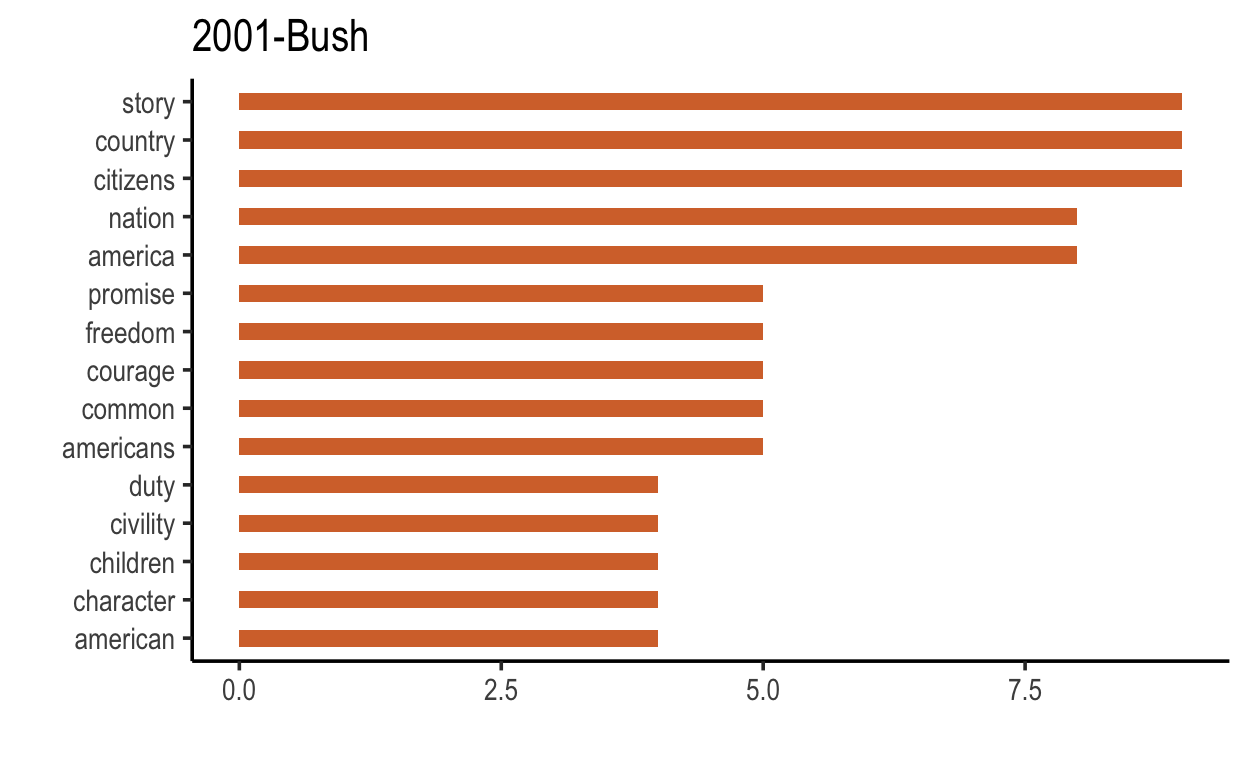
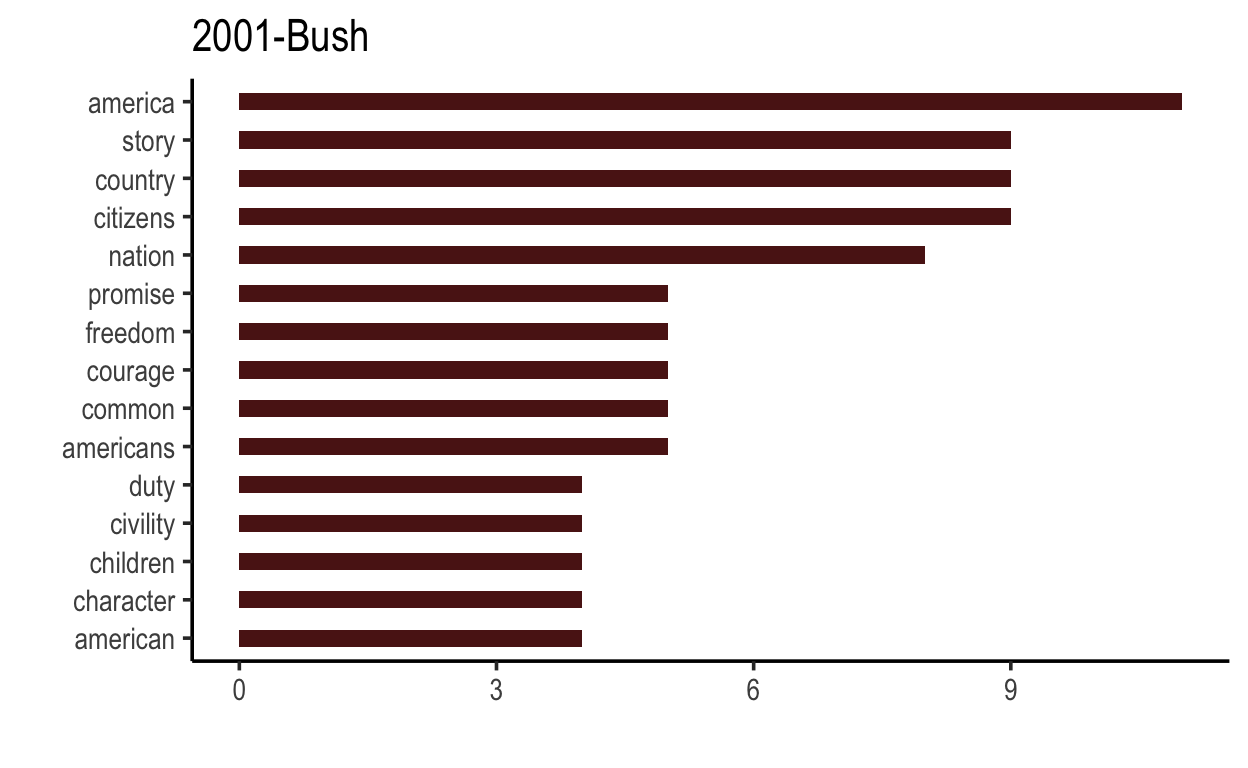
rev

diff --git a/_site/posts/3-keywords/index.html b/_site/posts/3-keywords/index.html
@@ -87,7 +87,7 @@ code span.wa { color: #5e5e5e; font-style: italic; } /* Warning */
   <!--radix_placeholder_meta_tags-->
 <title>Texan Inaugural Addresses: 3 Keywords</title>
 
-<meta property="description" itemprop="description" content="Which keywords and ngrams are important?"/>
+<meta property="description" itemprop="description" content="Which keywords are frequent, and which are significant?"/>
 
 <link rel="canonical" href="https://texan-inaugurals.netlify.app/posts/3-keywords/"/>
 
@@ -99,7 +99,7 @@ code span.wa { color: #5e5e5e; font-style: italic; } /* Warning */
 <!--  https://developers.facebook.com/docs/sharing/webmasters#markup -->
 <meta property="og:title" content="Texan Inaugural Addresses: 3 Keywords"/>
 <meta property="og:type" content="article"/>
-<meta property="og:description" content="Which keywords and ngrams are important?"/>
+<meta property="og:description" content="Which keywords are frequent, and which are significant?"/>
 <meta property="og:url" content="https://texan-inaugurals.netlify.app/posts/3-keywords/"/>
 <meta property="og:image" content="https://texan-inaugurals.netlify.app/posts/3-keywords/key.png"/>
 <meta property="og:image:width" content="606"/>
@@ -110,7 +110,7 @@ code span.wa { color: #5e5e5e; font-style: italic; } /* Warning */
 <!--  https://dev.twitter.com/cards/types/summary -->
 <meta property="twitter:card" content="summary_large_image"/>
 <meta property="twitter:title" content="Texan Inaugural Addresses: 3 Keywords"/>
-<meta property="twitter:description" content="Which keywords and ngrams are important?"/>
+<meta property="twitter:description" content="Which keywords are frequent, and which are significant?"/>
 <meta property="twitter:url" content="https://texan-inaugurals.netlify.app/posts/3-keywords/"/>
 <meta property="twitter:image" content="https://texan-inaugurals.netlify.app/posts/3-keywords/key.png"/>
 <meta property="twitter:image:width" content="606"/>
@@ -127,12 +127,12 @@ code span.wa { color: #5e5e5e; font-style: italic; } /* Warning */
   <!--radix_placeholder_rmarkdown_metadata-->
 
 <script type="text/json" id="radix-rmarkdown-metadata">
-{"type":"list","attributes":{"names":{"type":"character","attributes":{},"value":["title","description","author","date","draft","output","citation_url","canonical_url"]}},"value":[{"type":"character","attributes":{},"value":["3 Keywords"]},{"type":"character","attributes":{},"value":["Which keywords and ngrams are important?"]},{"type":"list","attributes":{},"value":[{"type":"list","attributes":{"names":{"type":"character","attributes":{},"value":["name","url","affiliation"]}},"value":[{"type":"character","attributes":{},"value":["Lars Hinrichs"]},{"type":"character","attributes":{},"value":["https://larshinrichs.site"]},{"type":"character","attributes":{},"value":["The University of Texas at Austin"]}]}]},{"type":"character","attributes":{},"value":["12-24-2020"]},{"type":"logical","attributes":{},"value":[false]},{"type":"list","attributes":{"names":{"type":"character","attributes":{},"value":["distill::distill_article"]}},"value":[{"type":"list","attributes":{"names":{"type":"character","attributes":{},"value":["self_contained"]}},"value":[{"type":"logical","attributes":{},"value":[false]}]}]},{"type":"character","attributes":{},"value":["https://texan-inaugurals.netlify.app/posts/3-keywords/"]},{"type":"character","attributes":{},"value":["https://texan-inaugurals.netlify.app/posts/3-keywords/"]}]}
+{"type":"list","attributes":{"names":{"type":"character","attributes":{},"value":["title","description","author","date","draft","output","citation_url","canonical_url"]}},"value":[{"type":"character","attributes":{},"value":["3 Keywords"]},{"type":"character","attributes":{},"value":["Which keywords are frequent, and which are significant?"]},{"type":"list","attributes":{},"value":[{"type":"list","attributes":{"names":{"type":"character","attributes":{},"value":["name","url","affiliation"]}},"value":[{"type":"character","attributes":{},"value":["Lars Hinrichs"]},{"type":"character","attributes":{},"value":["https://larshinrichs.site"]},{"type":"character","attributes":{},"value":["The University of Texas at Austin"]}]}]},{"type":"character","attributes":{},"value":["12-24-2020"]},{"type":"logical","attributes":{},"value":[false]},{"type":"list","attributes":{"names":{"type":"character","attributes":{},"value":["distill::distill_article"]}},"value":[{"type":"list","attributes":{"names":{"type":"character","attributes":{},"value":["self_contained"]}},"value":[{"type":"logical","attributes":{},"value":[false]}]}]},{"type":"character","attributes":{},"value":["https://texan-inaugurals.netlify.app/posts/3-keywords/"]},{"type":"character","attributes":{},"value":["https://texan-inaugurals.netlify.app/posts/3-keywords/"]}]}
 </script>
 <!--/radix_placeholder_rmarkdown_metadata-->
   
   <script type="text/json" id="radix-resource-manifest">
-  {"type":"character","attributes":{},"value":["3-keywords_files/anchor-4.2.2/anchor.min.js","3-keywords_files/bowser-1.9.3/bowser.min.js","3-keywords_files/distill-2.2.21/template.v2.js","3-keywords_files/figure-html5/make-plots-1.png","3-keywords_files/figure-html5/p1-1.png","3-keywords_files/figure-html5/p2-1.png","3-keywords_files/figure-html5/p3-1.png","3-keywords_files/figure-html5/p4-1.png","3-keywords_files/header-attrs-2.5/header-attrs.js","3-keywords_files/jquery-1.11.3/jquery.min.js","3-keywords_files/webcomponents-2.0.0/webcomponents.js","data/p1.png","data/plots.png","key.png"]}
+  {"type":"character","attributes":{},"value":["3-keywords_files/anchor-4.2.2/anchor.min.js","3-keywords_files/bowser-1.9.3/bowser.min.js","3-keywords_files/distill-2.2.21/template.v2.js","3-keywords_files/figure-html5/make-plots-1.png","3-keywords_files/figure-html5/p1-1.png","3-keywords_files/figure-html5/p2-1.png","3-keywords_files/figure-html5/p3-1.png","3-keywords_files/figure-html5/p4-1.png","3-keywords_files/figure-html5/p5-1.png","3-keywords_files/figure-html5/p6-1.png","3-keywords_files/figure-html5/p7-1.png","3-keywords_files/figure-html5/p8-1.png","3-keywords_files/figure-html5/printplots1-2-1.png","3-keywords_files/figure-html5/printplots1-4-1.png","3-keywords_files/figure-html5/printplots5-8-1.png","3-keywords_files/figure-html5/tf-idf-1.png","3-keywords_files/header-attrs-2.5/header-attrs.js","3-keywords_files/jquery-1.11.3/jquery.min.js","3-keywords_files/webcomponents-2.0.0/webcomponents.js","data/p1.png","data/plots.png","key.png"]}
   </script>
   <!--radix_placeholder_navigation_in_header-->
 <meta name="distill:offset" content="../.."/>
@@ -1777,7 +1777,7 @@ document.addEventListener('DOMContentLoaded', function() {
 <!--radix_placeholder_front_matter-->
 
 <script id="distill-front-matter" type="text/json">
-{"title":"3 Keywords","description":"Which keywords and ngrams are important?","authors":[{"author":"Lars Hinrichs","authorURL":"https://larshinrichs.site","affiliation":"The University of Texas at Austin","affiliationURL":"#","orcidID":""}],"publishedDate":"2020-12-24T00:00:00.000+00:00","citationText":"Hinrichs, 2020"}
+{"title":"3 Keywords","description":"Which keywords are frequent, and which are significant?","authors":[{"author":"Lars Hinrichs","authorURL":"https://larshinrichs.site","affiliation":"The University of Texas at Austin","affiliationURL":"#","orcidID":""}],"publishedDate":"2020-12-24T00:00:00.000+00:00","citationText":"Hinrichs, 2020"}
 </script>
 
 <!--/radix_placeholder_front_matter-->
@@ -1805,7 +1805,7 @@ document.addEventListener('DOMContentLoaded', function() {
 <h1>3 Keywords</h1>
 <!--radix_placeholder_categories-->
 <!--/radix_placeholder_categories-->
-<p><p>Which keywords and ngrams are important?</p></p>
+<p><p>Which keywords are frequent, and which are significant?</p></p>
 </div>
 
 <div class="d-byline">
@@ -1826,17 +1826,33 @@ document.addEventListener('DOMContentLoaded', function() {
 <div class="layout-chunk" data-layout="l-body">
 
 </div>
+<div class="layout-chunk" data-layout="l-outset">
+<div class="figure"><span id="fig:printplots1-4"></span>
+<img src="3-keywords_files/figure-html5/printplots1-4-1.png" alt="Top 15 terms in each Texan inaugural address by raw frequency." width="624" />
+<p class="caption">
+Figure 1: Top 15 terms in each Texan inaugural address by raw frequency.
+</p>
+</div>
+</div>
+<h2 id="most-important-words-by-tf-idf">Most important words by tf-idf</h2>
+<p>An advanced measure of the importance of words in documents is <code>tf-idf</code>. It is calculated using a formula that takes into account both each word’s raw frequency as well as the number of documents in the corpus in which it is used. This method is a way of finding out <strong>the most distinctive words in each text</strong>.</p>
+<aside>
+<code>tf-idf</code> is defined in detail <a href="https://en.wikipedia.org/wiki/Tf%E2%80%93idf">here</a>.
+</aside>
+<p>For example, in the context at hand, you might expect that each of the four speeches contains the words <em>freedom</em> or <em>people</em>. And while it is certainly interesting which president used them the most, these words aren’t really distinctive, simply because each president uses them on this occasion. But it’s instructive to look at the words that are <em>both frequent and unique</em> to each speech.</p>
 <div class="layout-chunk" data-layout="l-body">
-<p><img src="3-keywords_files/figure-html5/p2-1.png" width="624" /></p>
+
 </div>
 <div class="layout-chunk" data-layout="l-body">
-<p><img src="3-keywords_files/figure-html5/p3-1.png" width="624" /></p>
+
 </div>
-<div class="layout-chunk" data-layout="l-body">
-<p><img src="3-keywords_files/figure-html5/p4-1.png" width="624" /></p>
+<div class="layout-chunk" data-layout="l-outset">
+<div class="figure"><span id="fig:printplots5-8"></span>
+<img src="3-keywords_files/figure-html5/printplots5-8-1.png" alt="Top 15 terms in each Texan inaugural address by tf-idf." width="624" />
+<p class="caption">
+Figure 2: Top 15 terms in each Texan inaugural address by tf-idf.
+</p>
 </div>
-<div class="layout-chunk" data-layout="l-body">
-<p><img src="3-keywords_files/figure-html5/p1-1.png" width="624" /></p>
 </div>
 <div class="sourceCode" id="cb1"><pre class="sourceCode r distill-force-highlighting-css"><code class="sourceCode r"></code></pre></div>
 <!--radix_placeholder_article_footer-->

diff --git a/_posts/3-keywords/3-keywords.html b/_posts/3-keywords/3-keywords.html
@@ -87,7 +87,7 @@ code span.wa { color: #5e5e5e; font-style: italic; } /* Warning */
   <!--radix_placeholder_meta_tags-->
   <title>3 Keywords</title>
 
-  <meta property="description" itemprop="description" content="Which keywords and ngrams are important?"/>
+  <meta property="description" itemprop="description" content="Which keywords are frequent, and which are significant?"/>
 
 
   <!--  https://schema.org/Article -->
@@ -98,24 +98,24 @@ code span.wa { color: #5e5e5e; font-style: italic; } /* Warning */
   <!--  https://developers.facebook.com/docs/sharing/webmasters#markup -->
   <meta property="og:title" content="3 Keywords"/>
   <meta property="og:type" content="article"/>
-  <meta property="og:description" content="Which keywords and ngrams are important?"/>
+  <meta property="og:description" content="Which keywords are frequent, and which are significant?"/>
   <meta property="og:locale" content="en_US"/>
 
   <!--  https://dev.twitter.com/cards/types/summary -->
   <meta property="twitter:card" content="summary"/>
   <meta property="twitter:title" content="3 Keywords"/>
-  <meta property="twitter:description" content="Which keywords and ngrams are important?"/>
+  <meta property="twitter:description" content="Which keywords are frequent, and which are significant?"/>
 
   <!--/radix_placeholder_meta_tags-->
   <!--radix_placeholder_rmarkdown_metadata-->
 
   <script type="text/json" id="radix-rmarkdown-metadata">
-  {"type":"list","attributes":{"names":{"type":"character","attributes":{},"value":["title","description","author","date","draft","output"]}},"value":[{"type":"character","attributes":{},"value":["3 Keywords"]},{"type":"character","attributes":{},"value":["Which keywords and ngrams are important?\n"]},{"type":"list","attributes":{},"value":[{"type":"list","attributes":{"names":{"type":"character","attributes":{},"value":["name","url","affiliation"]}},"value":[{"type":"character","attributes":{},"value":["Lars Hinrichs"]},{"type":"character","attributes":{},"value":["https://larshinrichs.site"]},{"type":"character","attributes":{},"value":["The University of Texas at Austin"]}]}]},{"type":"character","attributes":{},"value":["12-24-2020"]},{"type":"logical","attributes":{},"value":[false]},{"type":"list","attributes":{"names":{"type":"character","attributes":{},"value":["distill::distill_article"]}},"value":[{"type":"list","attributes":{"names":{"type":"character","attributes":{},"value":["self_contained"]}},"value":[{"type":"logical","attributes":{},"value":[false]}]}]}]}
+  {"type":"list","attributes":{"names":{"type":"character","attributes":{},"value":["title","description","author","date","draft","output"]}},"value":[{"type":"character","attributes":{},"value":["3 Keywords"]},{"type":"character","attributes":{},"value":["Which keywords are frequent, and which are significant?\n"]},{"type":"list","attributes":{},"value":[{"type":"list","attributes":{"names":{"type":"character","attributes":{},"value":["name","url","affiliation"]}},"value":[{"type":"character","attributes":{},"value":["Lars Hinrichs"]},{"type":"character","attributes":{},"value":["https://larshinrichs.site"]},{"type":"character","attributes":{},"value":["The University of Texas at Austin"]}]}]},{"type":"character","attributes":{},"value":["12-24-2020"]},{"type":"logical","attributes":{},"value":[false]},{"type":"list","attributes":{"names":{"type":"character","attributes":{},"value":["distill::distill_article"]}},"value":[{"type":"list","attributes":{"names":{"type":"character","attributes":{},"value":["self_contained"]}},"value":[{"type":"logical","attributes":{},"value":[false]}]}]}]}
   </script>
   <!--/radix_placeholder_rmarkdown_metadata-->
   
   <script type="text/json" id="radix-resource-manifest">
-  {"type":"character","attributes":{},"value":["3-keywords_files/anchor-4.2.2/anchor.min.js","3-keywords_files/bowser-1.9.3/bowser.min.js","3-keywords_files/distill-2.2.21/template.v2.js","3-keywords_files/figure-html5/make-plots-1.png","3-keywords_files/figure-html5/p1-1.png","3-keywords_files/figure-html5/p2-1.png","3-keywords_files/figure-html5/p3-1.png","3-keywords_files/figure-html5/p4-1.png","3-keywords_files/header-attrs-2.5/header-attrs.js","3-keywords_files/jquery-1.11.3/jquery.min.js","3-keywords_files/webcomponents-2.0.0/webcomponents.js","data/p1.png","data/plots.png","key.png"]}
+  {"type":"character","attributes":{},"value":["3-keywords_files/anchor-4.2.2/anchor.min.js","3-keywords_files/bowser-1.9.3/bowser.min.js","3-keywords_files/distill-2.2.21/template.v2.js","3-keywords_files/figure-html5/make-plots-1.png","3-keywords_files/figure-html5/p1-1.png","3-keywords_files/figure-html5/p2-1.png","3-keywords_files/figure-html5/p3-1.png","3-keywords_files/figure-html5/p4-1.png","3-keywords_files/figure-html5/p5-1.png","3-keywords_files/figure-html5/p6-1.png","3-keywords_files/figure-html5/p7-1.png","3-keywords_files/figure-html5/p8-1.png","3-keywords_files/figure-html5/printplots1-2-1.png","3-keywords_files/figure-html5/printplots1-4-1.png","3-keywords_files/figure-html5/printplots5-8-1.png","3-keywords_files/figure-html5/tf-idf-1.png","3-keywords_files/header-attrs-2.5/header-attrs.js","3-keywords_files/jquery-1.11.3/jquery.min.js","3-keywords_files/webcomponents-2.0.0/webcomponents.js","data/p1.png","data/plots.png","key.png"]}
   </script>
   <!--radix_placeholder_navigation_in_header-->
   <!--/radix_placeholder_navigation_in_header-->
@@ -1420,7 +1420,7 @@ code span.wa { color: #5e5e5e; font-style: italic; } /* Warning */
 <!--radix_placeholder_front_matter-->
 
 <script id="distill-front-matter" type="text/json">
-{"title":"3 Keywords","description":"Which keywords and ngrams are important?","authors":[{"author":"Lars Hinrichs","authorURL":"https://larshinrichs.site","affiliation":"The University of Texas at Austin","affiliationURL":"#","orcidID":""}],"publishedDate":"2020-12-24T00:00:00.000+00:00","citationText":"Hinrichs, 2020"}
+{"title":"3 Keywords","description":"Which keywords are frequent, and which are significant?","authors":[{"author":"Lars Hinrichs","authorURL":"https://larshinrichs.site","affiliation":"The University of Texas at Austin","affiliationURL":"#","orcidID":""}],"publishedDate":"2020-12-24T00:00:00.000+00:00","citationText":"Hinrichs, 2020"}
 </script>
 
 <!--/radix_placeholder_front_matter-->
@@ -1433,7 +1433,7 @@ code span.wa { color: #5e5e5e; font-style: italic; } /* Warning */
 <h1>3 Keywords</h1>
 <!--radix_placeholder_categories-->
 <!--/radix_placeholder_categories-->
-<p><p>Which keywords and ngrams are important?</p></p>
+<p><p>Which keywords are frequent, and which are significant?</p></p>
 </div>
 
 <div class="d-byline">
@@ -1454,17 +1454,33 @@ code span.wa { color: #5e5e5e; font-style: italic; } /* Warning */
 <div class="layout-chunk" data-layout="l-body">
 
 </div>
+<div class="layout-chunk" data-layout="l-outset">
+<div class="figure"><span id="fig:printplots1-4"></span>
+<img src="3-keywords_files/figure-html5/printplots1-4-1.png" alt="Top 15 terms in each Texan inaugural address by raw frequency." width="624" />
+<p class="caption">
+Figure 1: Top 15 terms in each Texan inaugural address by raw frequency.
+</p>
+</div>
+</div>
+<h2 id="most-important-words-by-tf-idf">Most important words by tf-idf</h2>
+<p>An advanced measure of the importance of words in documents is <code>tf-idf</code>. It is calculated using a formula that takes into account both each word’s raw frequency as well as the number of documents in the corpus in which it is used. This method is a way of finding out <strong>the most distinctive words in each text</strong>.</p>
+<aside>
+<code>tf-idf</code> is defined in detail <a href="https://en.wikipedia.org/wiki/Tf%E2%80%93idf">here</a>.
+</aside>
+<p>For example, in the context at hand, you might expect that each of the four speeches contains the words <em>freedom</em> or <em>people</em>. And while it is certainly interesting which president used them the most, these words aren’t really distinctive, simply because each president uses them on this occasion. But it’s instructive to look at the words that are <em>both frequent and unique</em> to each speech.</p>
 <div class="layout-chunk" data-layout="l-body">
-<p><img src="3-keywords_files/figure-html5/p2-1.png" width="624" /></p>
+
 </div>
 <div class="layout-chunk" data-layout="l-body">
-<p><img src="3-keywords_files/figure-html5/p3-1.png" width="624" /></p>
+
 </div>
-<div class="layout-chunk" data-layout="l-body">
-<p><img src="3-keywords_files/figure-html5/p4-1.png" width="624" /></p>
+<div class="layout-chunk" data-layout="l-outset">
+<div class="figure"><span id="fig:printplots5-8"></span>
+<img src="3-keywords_files/figure-html5/printplots5-8-1.png" alt="Top 15 terms in each Texan inaugural address by tf-idf." width="624" />
+<p class="caption">
+Figure 2: Top 15 terms in each Texan inaugural address by tf-idf.
+</p>
 </div>
-<div class="layout-chunk" data-layout="l-body">
-<p><img src="3-keywords_files/figure-html5/p1-1.png" width="624" /></p>
 </div>
 <div class="sourceCode" id="cb1"><pre class="sourceCode r distill-force-highlighting-css"><code class="sourceCode r"></code></pre></div>
 <!--radix_placeholder_article_footer-->

diff --git a/_site/index.html b/_site/index.html
@@ -1956,7 +1956,7 @@ function init_posts_list() {
 <div class="description">
 <h2>3 Keywords</h2>
 <div class="dt-tags"></div>
-<p>Which keywords and ngrams are important?</p>
+<p>Which keywords are frequent, and which are significant?</p>
 </div>
 </a>
 </div>
